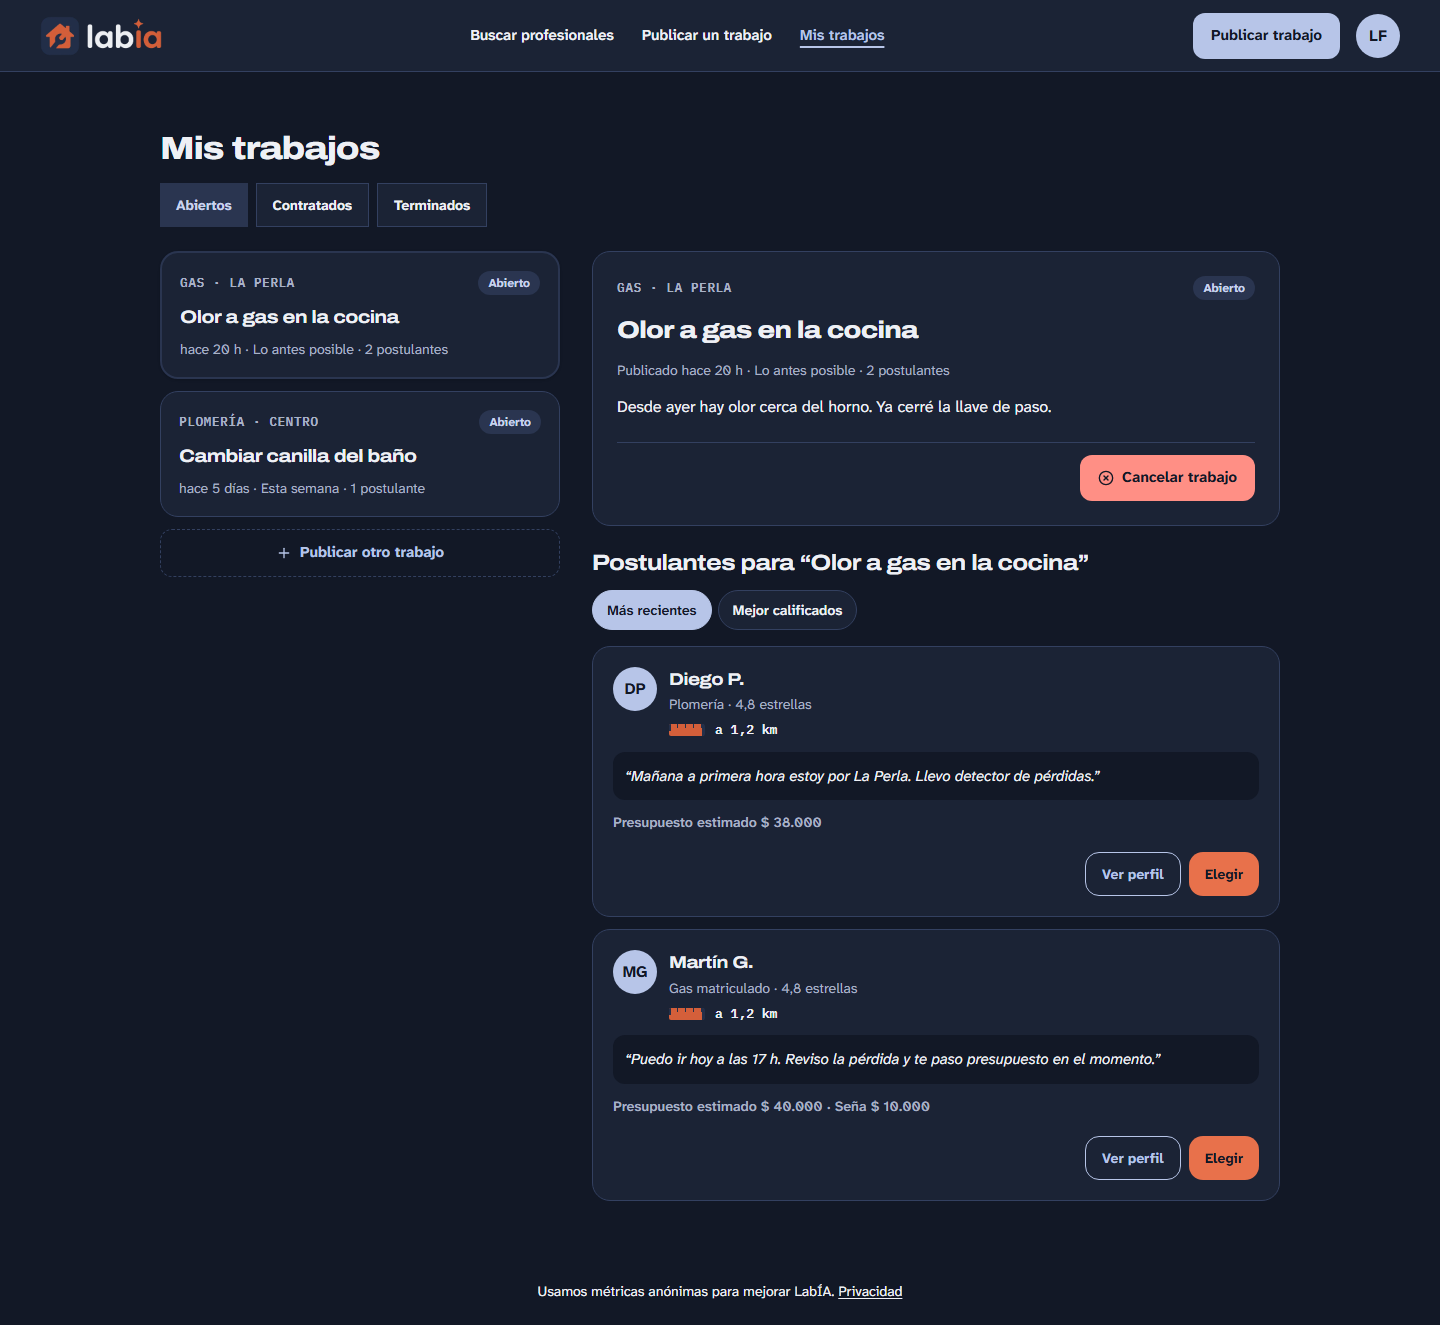
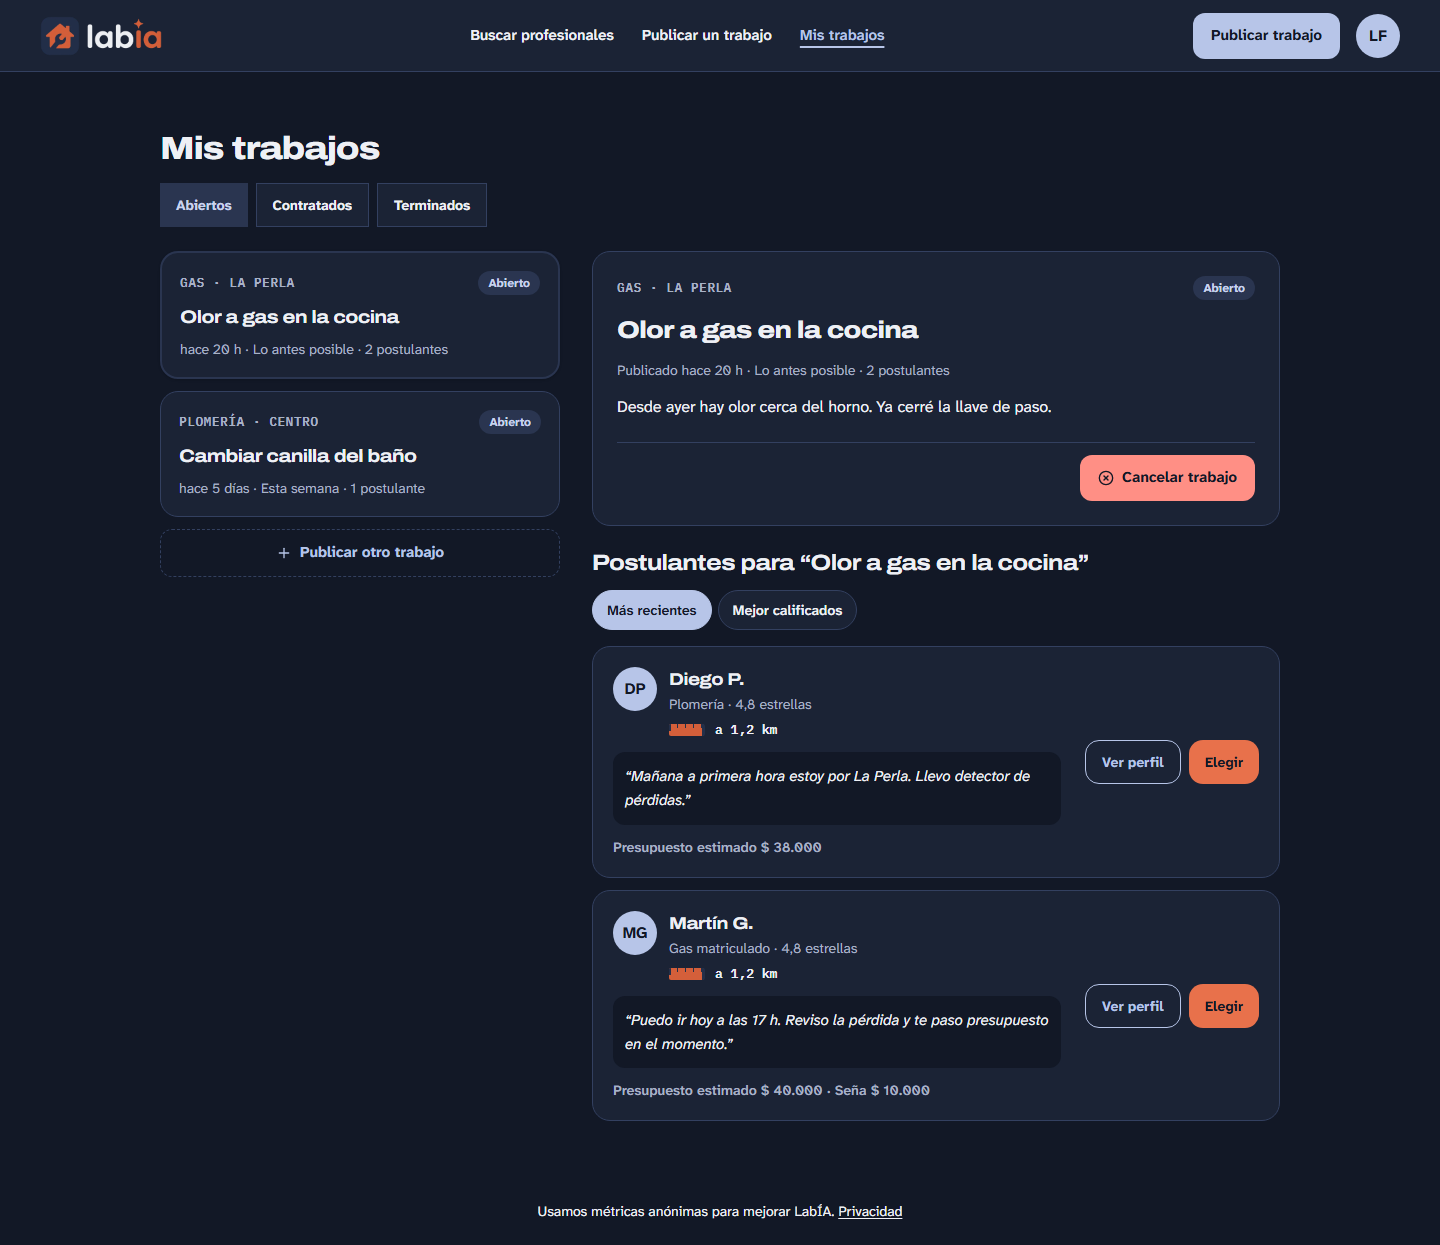
LAB-48: Postulantes en fila en escritorio como el prototipo
- En lg, cada postulante va en una fila: datos a la izquierda y acciones a la derecha (Desk-MisTrabajos). En celular sigue apilado.
- Capturas actualizadas con los datos semilla.

diff --git a/src/components/mis-trabajos/TarjetaPostulante.tsx b/src/components/mis-trabajos/TarjetaPostulante.tsx
@@ -83,37 +83,40 @@ export function TarjetaPostulante({
   return (
     <article
       aria-label={`Postulación de ${nombreCompleto}`}
-      className="flex flex-col gap-3 rounded-[18px] border border-divisor bg-superficie p-4 text-texto lg:p-5"
+      className="flex flex-col gap-3 rounded-[18px] border border-divisor bg-superficie p-4 text-texto lg:flex-row lg:items-center lg:gap-6 lg:p-5"
     >
-      <div className="flex items-start gap-3">
-        <Avatar
-          nombre={nombreCompleto}
-          src={postulante.profesional.fotoPath}
-          tamano={44}
-          className="shrink-0"
-        />
-        <div className="flex min-w-0 flex-1 flex-col gap-0.5">
-          <span className="font-titulo text-base font-bold tracking-tight text-texto lg:text-[17px]">
-            {nombreCompleto}
-          </span>
-          <span className="text-[13px] text-texto-secundario lg:text-sm">{subtitulo}</span>
-          {postulante.profesional.distanciaKm !== null ? (
-            <div className="mt-1">
-              <CintaDistancia km={postulante.profesional.distanciaKm} />
-            </div>
-          ) : null}
+      {/* En escritorio, datos del postulante a la izquierda y acciones a la derecha (prototipo Desk). */}
+      <div className="flex min-w-0 flex-1 flex-col gap-3">
+        <div className="flex items-start gap-3">
+          <Avatar
+            nombre={nombreCompleto}
+            src={postulante.profesional.fotoPath}
+            tamano={44}
+            className="shrink-0"
+          />
+          <div className="flex min-w-0 flex-1 flex-col gap-0.5">
+            <span className="font-titulo text-base font-bold tracking-tight text-texto lg:text-[17px]">
+              {nombreCompleto}
+            </span>
+            <span className="text-[13px] text-texto-secundario lg:text-sm">{subtitulo}</span>
+            {postulante.profesional.distanciaKm !== null ? (
+              <div className="mt-1">
+                <CintaDistancia km={postulante.profesional.distanciaKm} />
+              </div>
+            ) : null}
+          </div>
         </div>
+
+        <div className="rounded-[12px] bg-fondo p-3 text-[15px] leading-relaxed text-texto italic">
+          “{postulante.mensaje}”
+        </div>
+
+        {textoPresupuesto ? (
+          <div className="text-sm font-semibold text-texto-secundario">{textoPresupuesto}</div>
+        ) : null}
       </div>
 
-      <div className="rounded-[12px] bg-fondo p-3 text-[15px] leading-relaxed text-texto italic">
-        “{postulante.mensaje}”
-      </div>
-
-      {textoPresupuesto ? (
-        <div className="text-sm font-semibold text-texto-secundario">{textoPresupuesto}</div>
-      ) : null}
-
-      <div className="mt-1 grid grid-cols-2 gap-2 pt-1 sm:flex sm:justify-end">
+      <div className="mt-1 grid grid-cols-2 gap-2 pt-1 sm:flex sm:justify-end lg:mt-0 lg:shrink-0 lg:pt-0">
         <Link
           href={`/profesionales/${postulante.profesionalId}`}
           className="inline-flex min-h-[44px] items-center justify-center rounded-boton border-[1.5px] border-azul px-4 text-center text-sm font-bold text-azul transition-colors hover:bg-azul-suave focus-visible:outline-3 focus-visible:outline-offset-2 focus-visible:outline-foco sm:w-auto"
